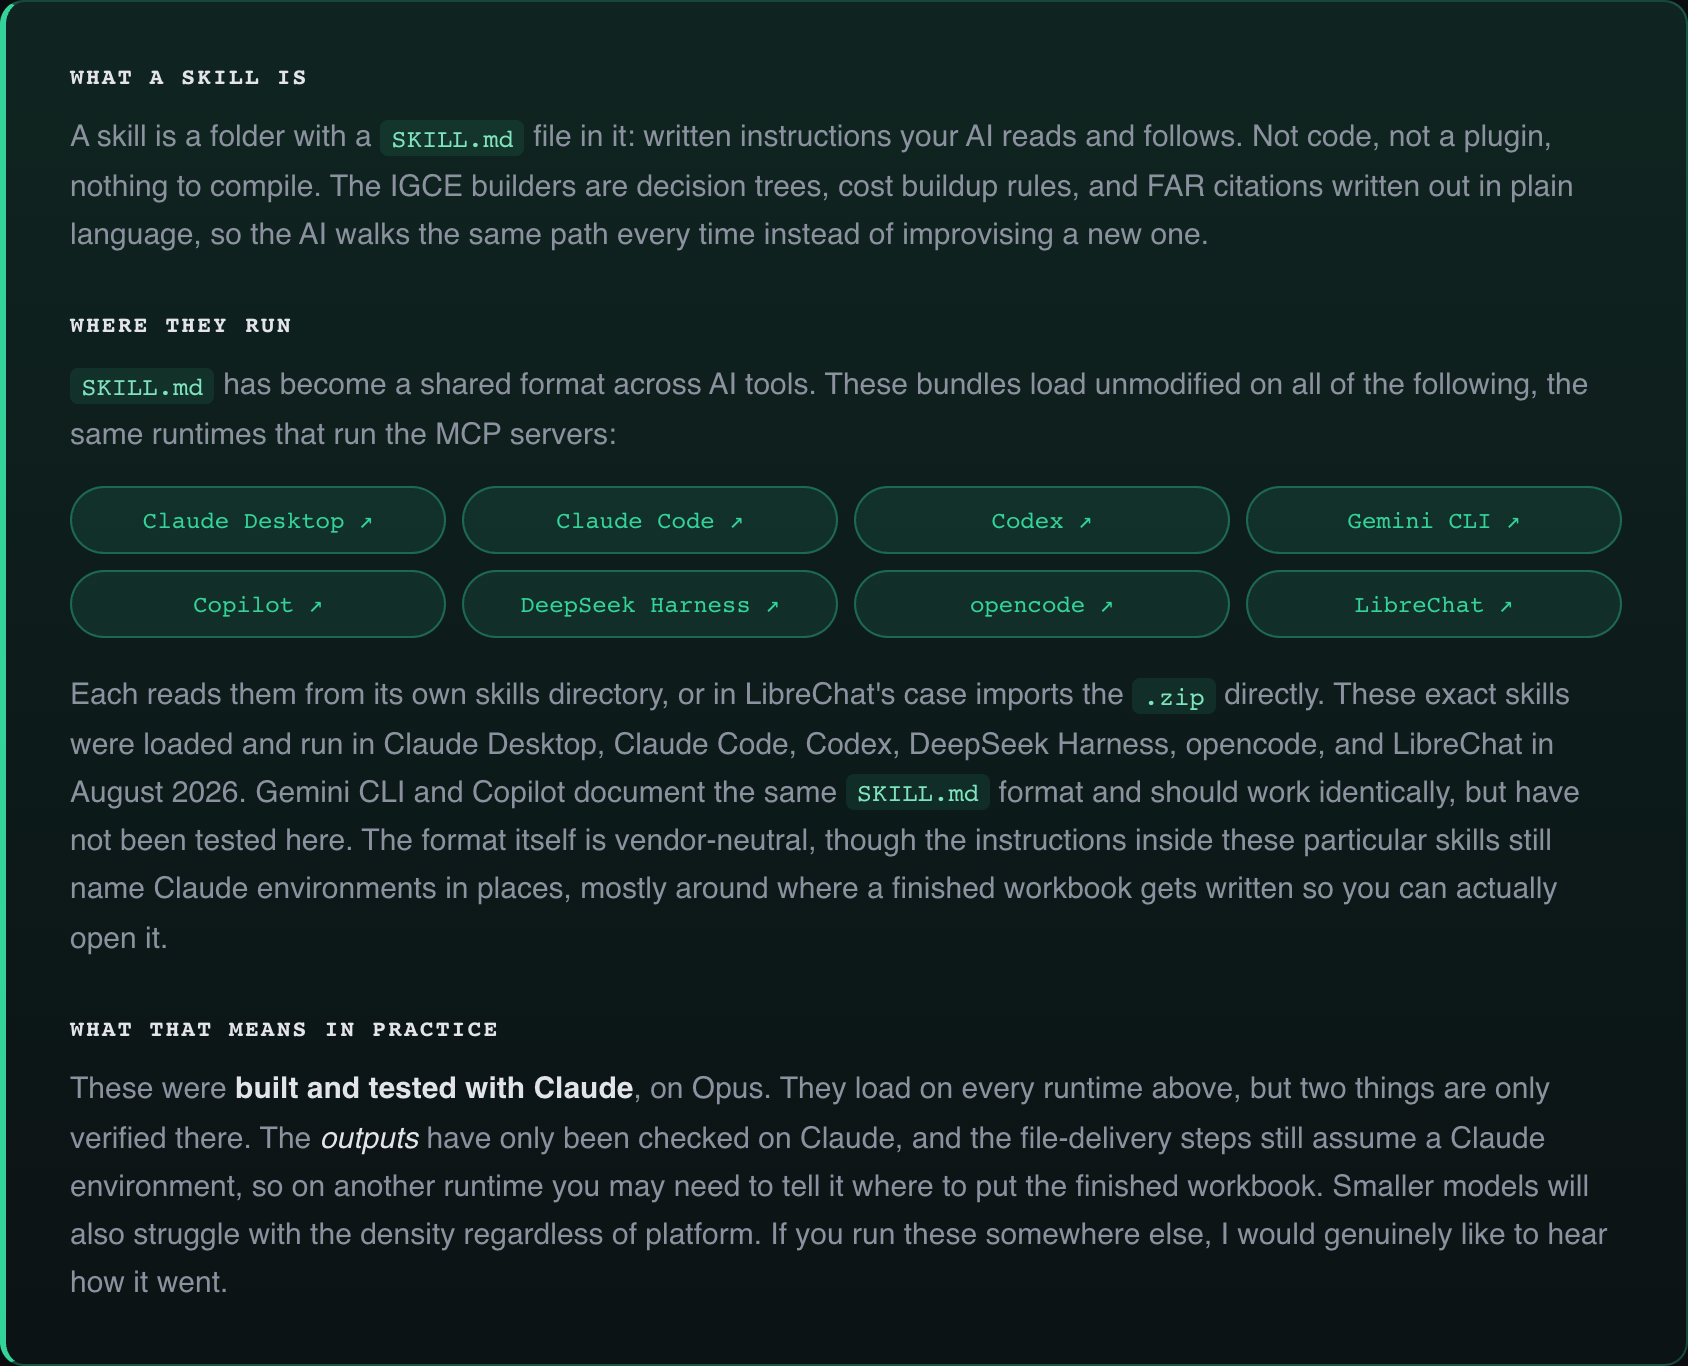
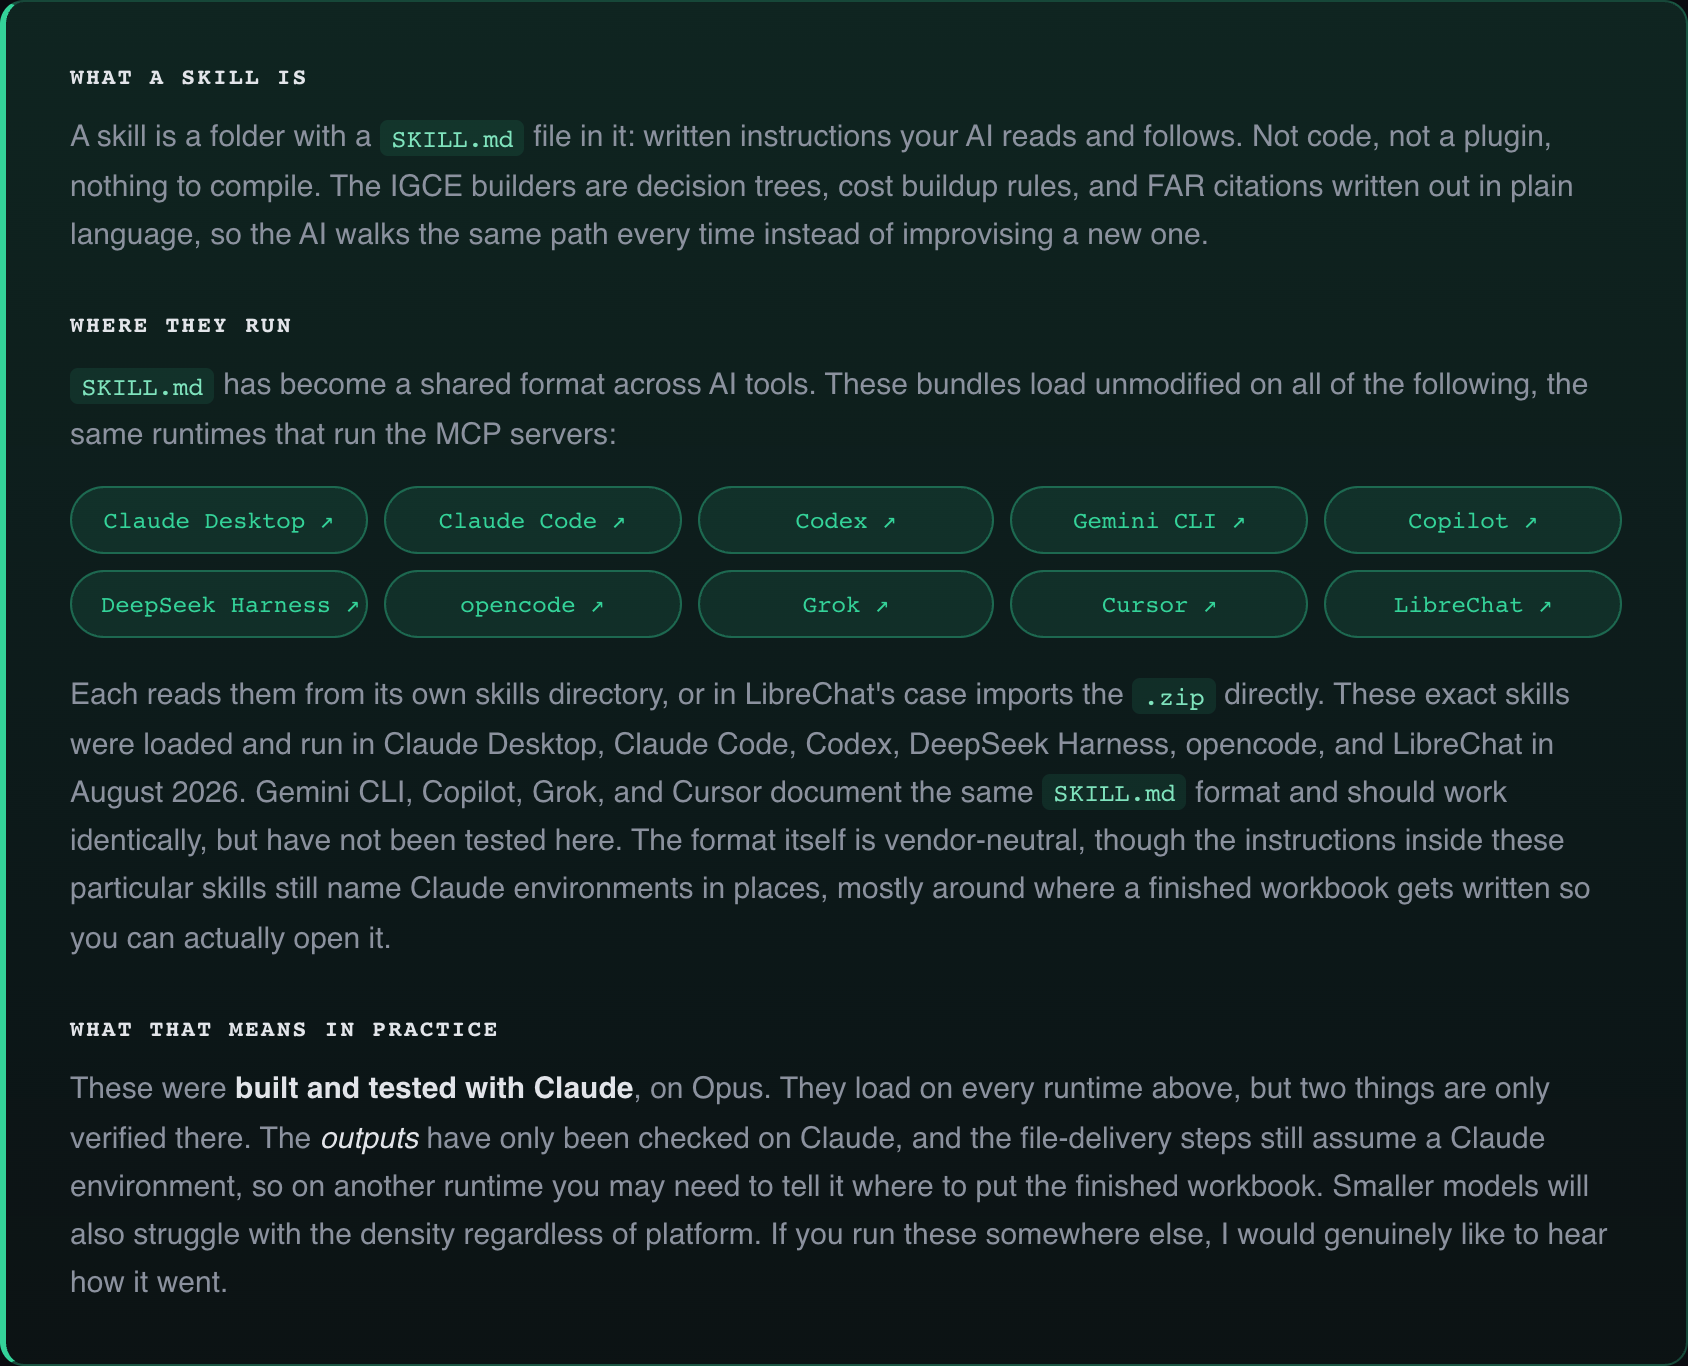
readme: add Grok and Cursor to the runtime roster
Matches the mcps repo and the tools page, so the answer to "where does
this run" is the same in all three places.

Keeps the tested/untested split honest: these skills were loaded and run
in Claude Desktop, Claude Code, Codex, DeepSeek Harness, opencode, and
LibreChat. Gemini CLI, Copilot, Grok, and Cursor document the same
SKILL.md format and are listed, but have not been tested here.

diff --git a/readme.md b/readme.md
@@ -4,9 +4,9 @@ Agent skills for federal acquisition deliverables: SOW / PWS, IGCEs, OT project 
 
 Website: [1102tools.com](https://1102tools.com)
 
-![What a skill is, where they run, and what that means in practice. A skill is a folder with a SKILL.md file in it: written instructions your AI reads and follows, not code and not a plugin. These bundles load unmodified on Claude Desktop, Claude Code, Codex, Gemini CLI, Copilot, DeepSeek Harness, opencode, and LibreChat. They were loaded and run in all of those except Gemini CLI and Copilot, which document the same format but have not been tested here. They were built and tested with Claude on Opus; the outputs are only verified there, and the file-delivery steps still assume a Claude environment.](docs/skills-explainer.png)
+![What a skill is, where they run, and what that means in practice. A skill is a folder with a SKILL.md file in it: written instructions your AI reads and follows, not code and not a plugin. These bundles load unmodified on Claude Desktop, Claude Code, Codex, Gemini CLI, Copilot, DeepSeek Harness, Grok, Cursor, opencode, and LibreChat. They were loaded and run in Claude Desktop, Claude Code, Codex, DeepSeek Harness, opencode, and LibreChat. Gemini CLI, Copilot, Grok, and Cursor document the same format but have not been tested here. They were built and tested with Claude on Opus; the outputs are only verified there, and the file-delivery steps still assume a Claude environment.](docs/skills-explainer.png)
 
-Runs on all of these, since the image above cannot be clicked: [Claude Desktop](https://claude.ai/download) &middot; [Claude Code](https://claude.com/claude-code) &middot; [Codex](https://openai.com/codex/) &middot; [Gemini CLI](https://geminicli.com) &middot; [Copilot](https://github.com/features/copilot) &middot; [DeepSeek Harness](https://deepseek.com/harness/en/) &middot; [opencode](https://opencode.ai) &middot; [LibreChat](https://www.librechat.ai)
+Runs on all of these, since the image above cannot be clicked: [Claude Desktop](https://claude.ai/download) &middot; [Claude Code](https://claude.com/claude-code) &middot; [Codex](https://openai.com/codex/) &middot; [Gemini CLI](https://geminicli.com) &middot; [Copilot](https://github.com/features/copilot) &middot; [DeepSeek Harness](https://deepseek.com/harness/en/) &middot; [Grok](https://x.ai/grok) &middot; [Cursor](https://cursor.com) &middot; [opencode](https://opencode.ai) &middot; [LibreChat](https://www.librechat.ai)
 
 ![Architecture diagram showing how each instrument chains scope, pricing, and data sources. FAR contracts: SOW/PWS Builder feeds three IGCE Builders (FFP, LH/T&M, Cost-Reimbursement) pulling from BLS OEWS, GSA CALC+, and GSA Per Diem. Other Transactions: OT Project Description Builder feeds OT Cost Analysis pulling from the same three data sources.](docs/architecture-v6.png)
 
